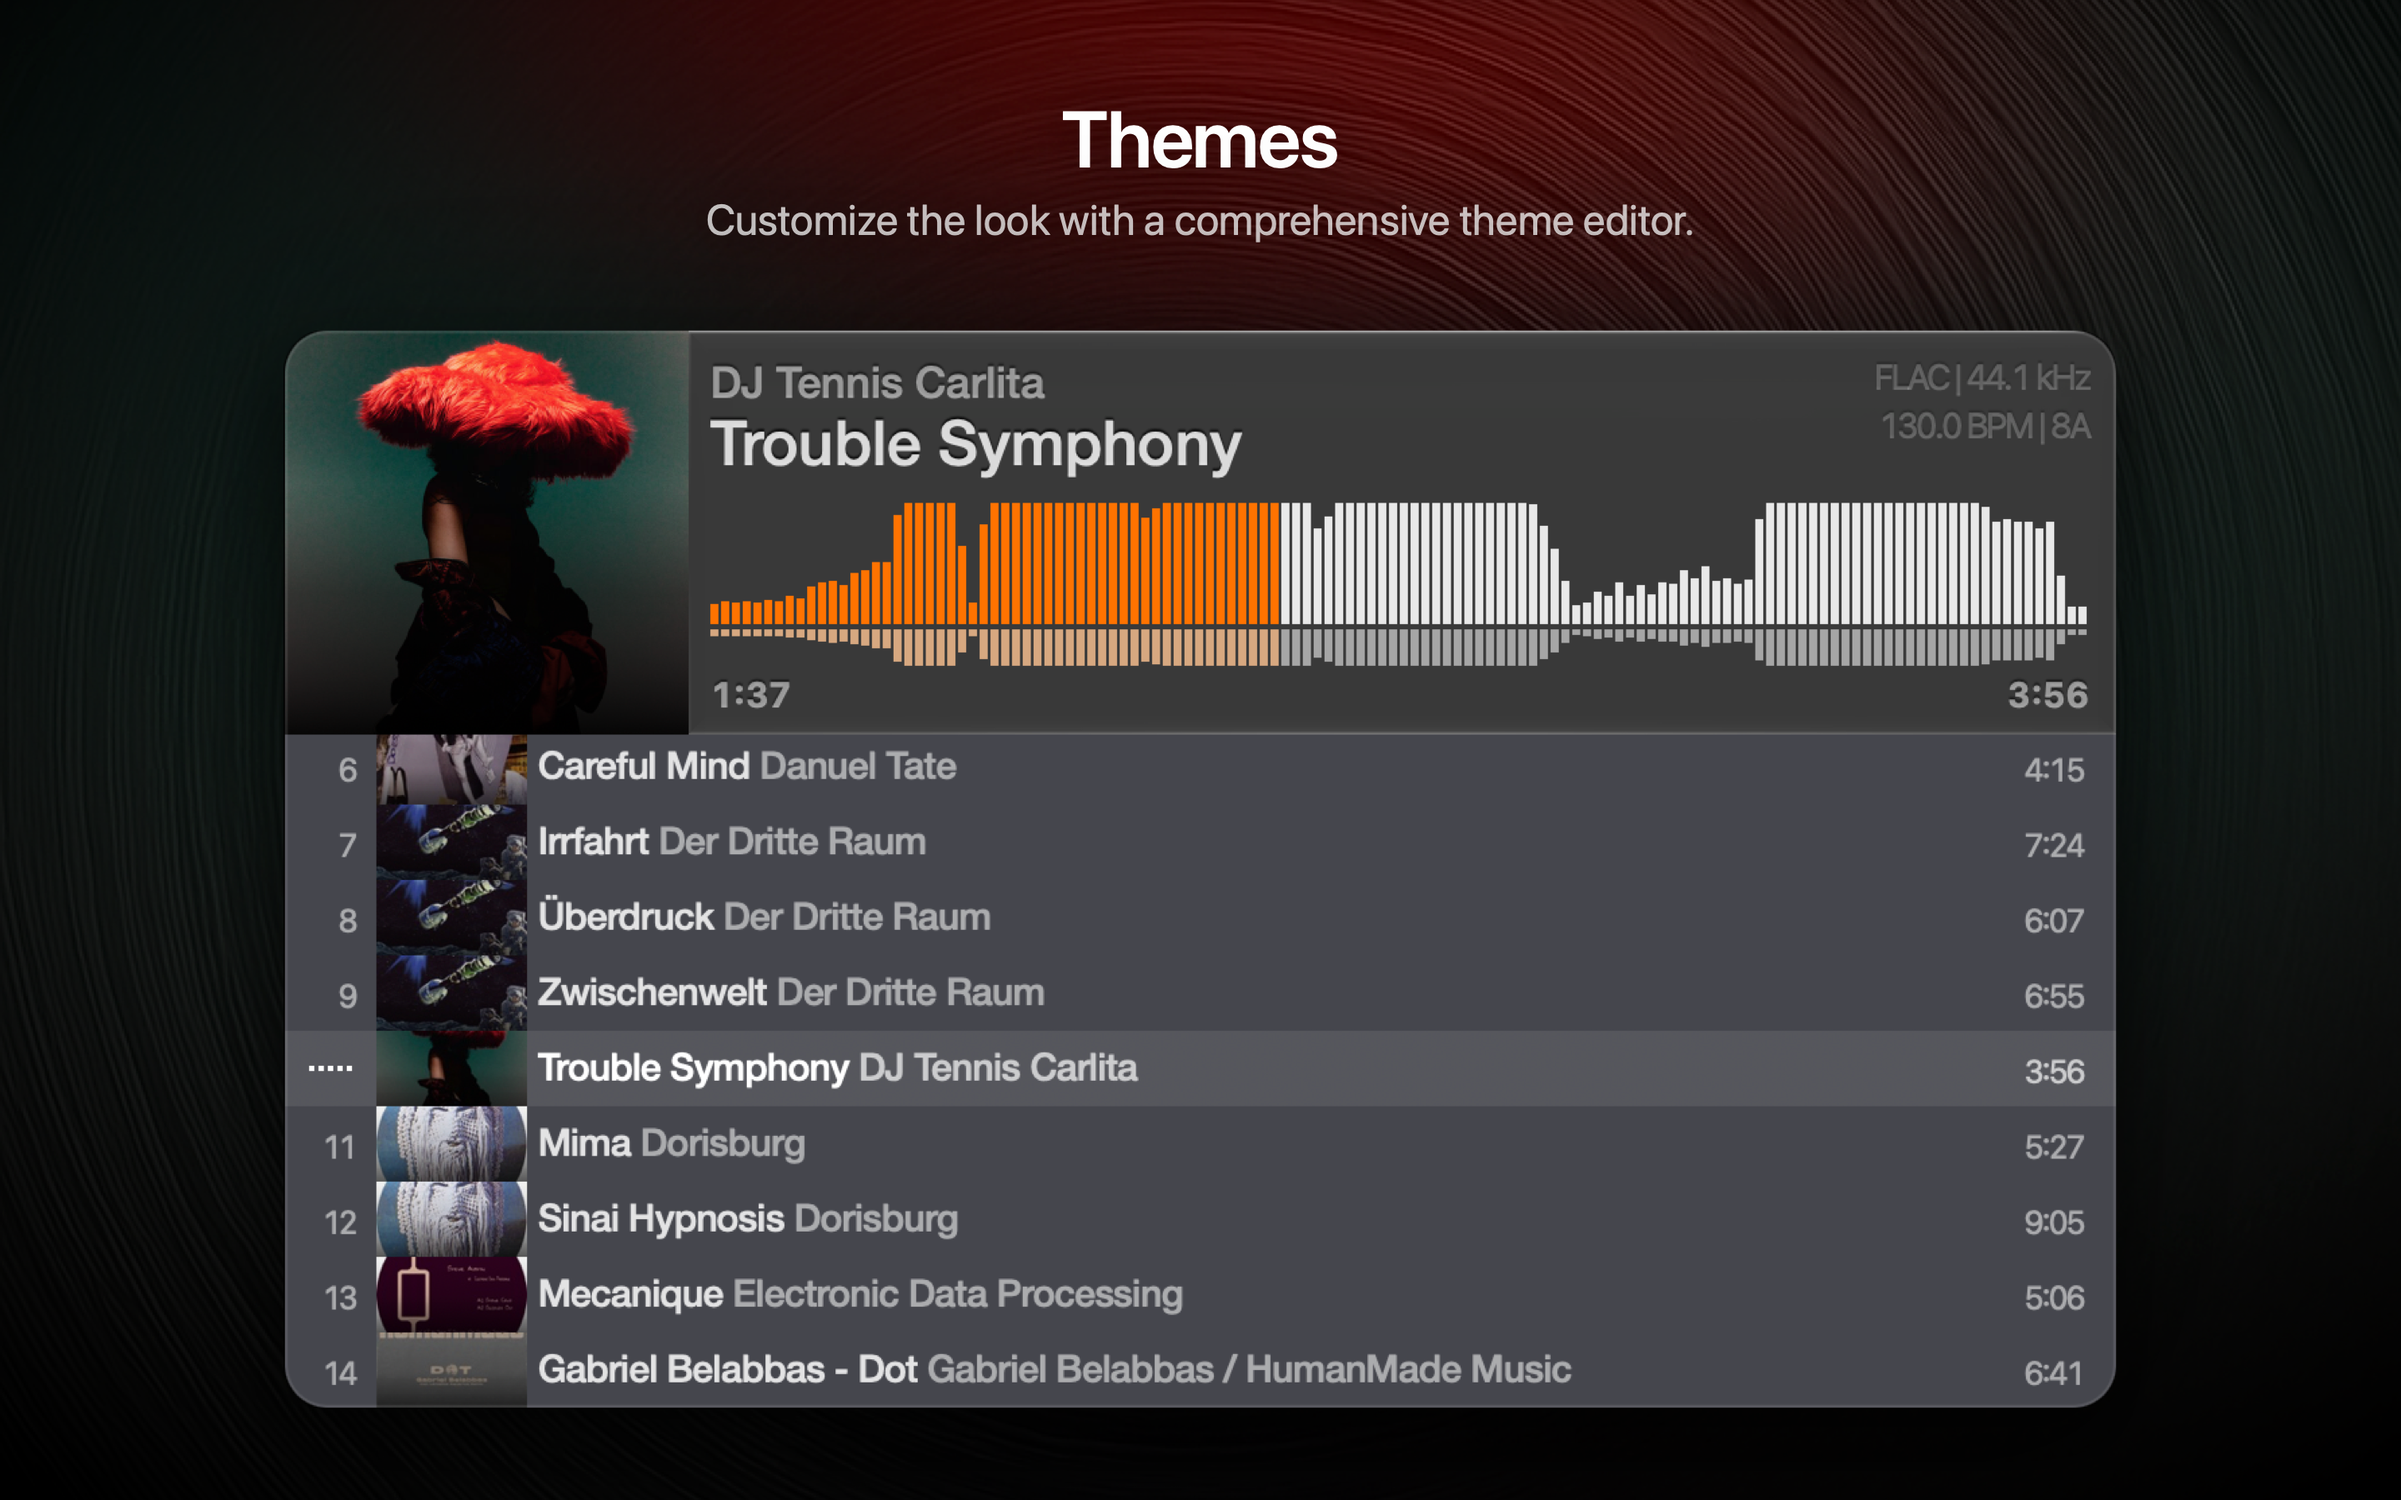
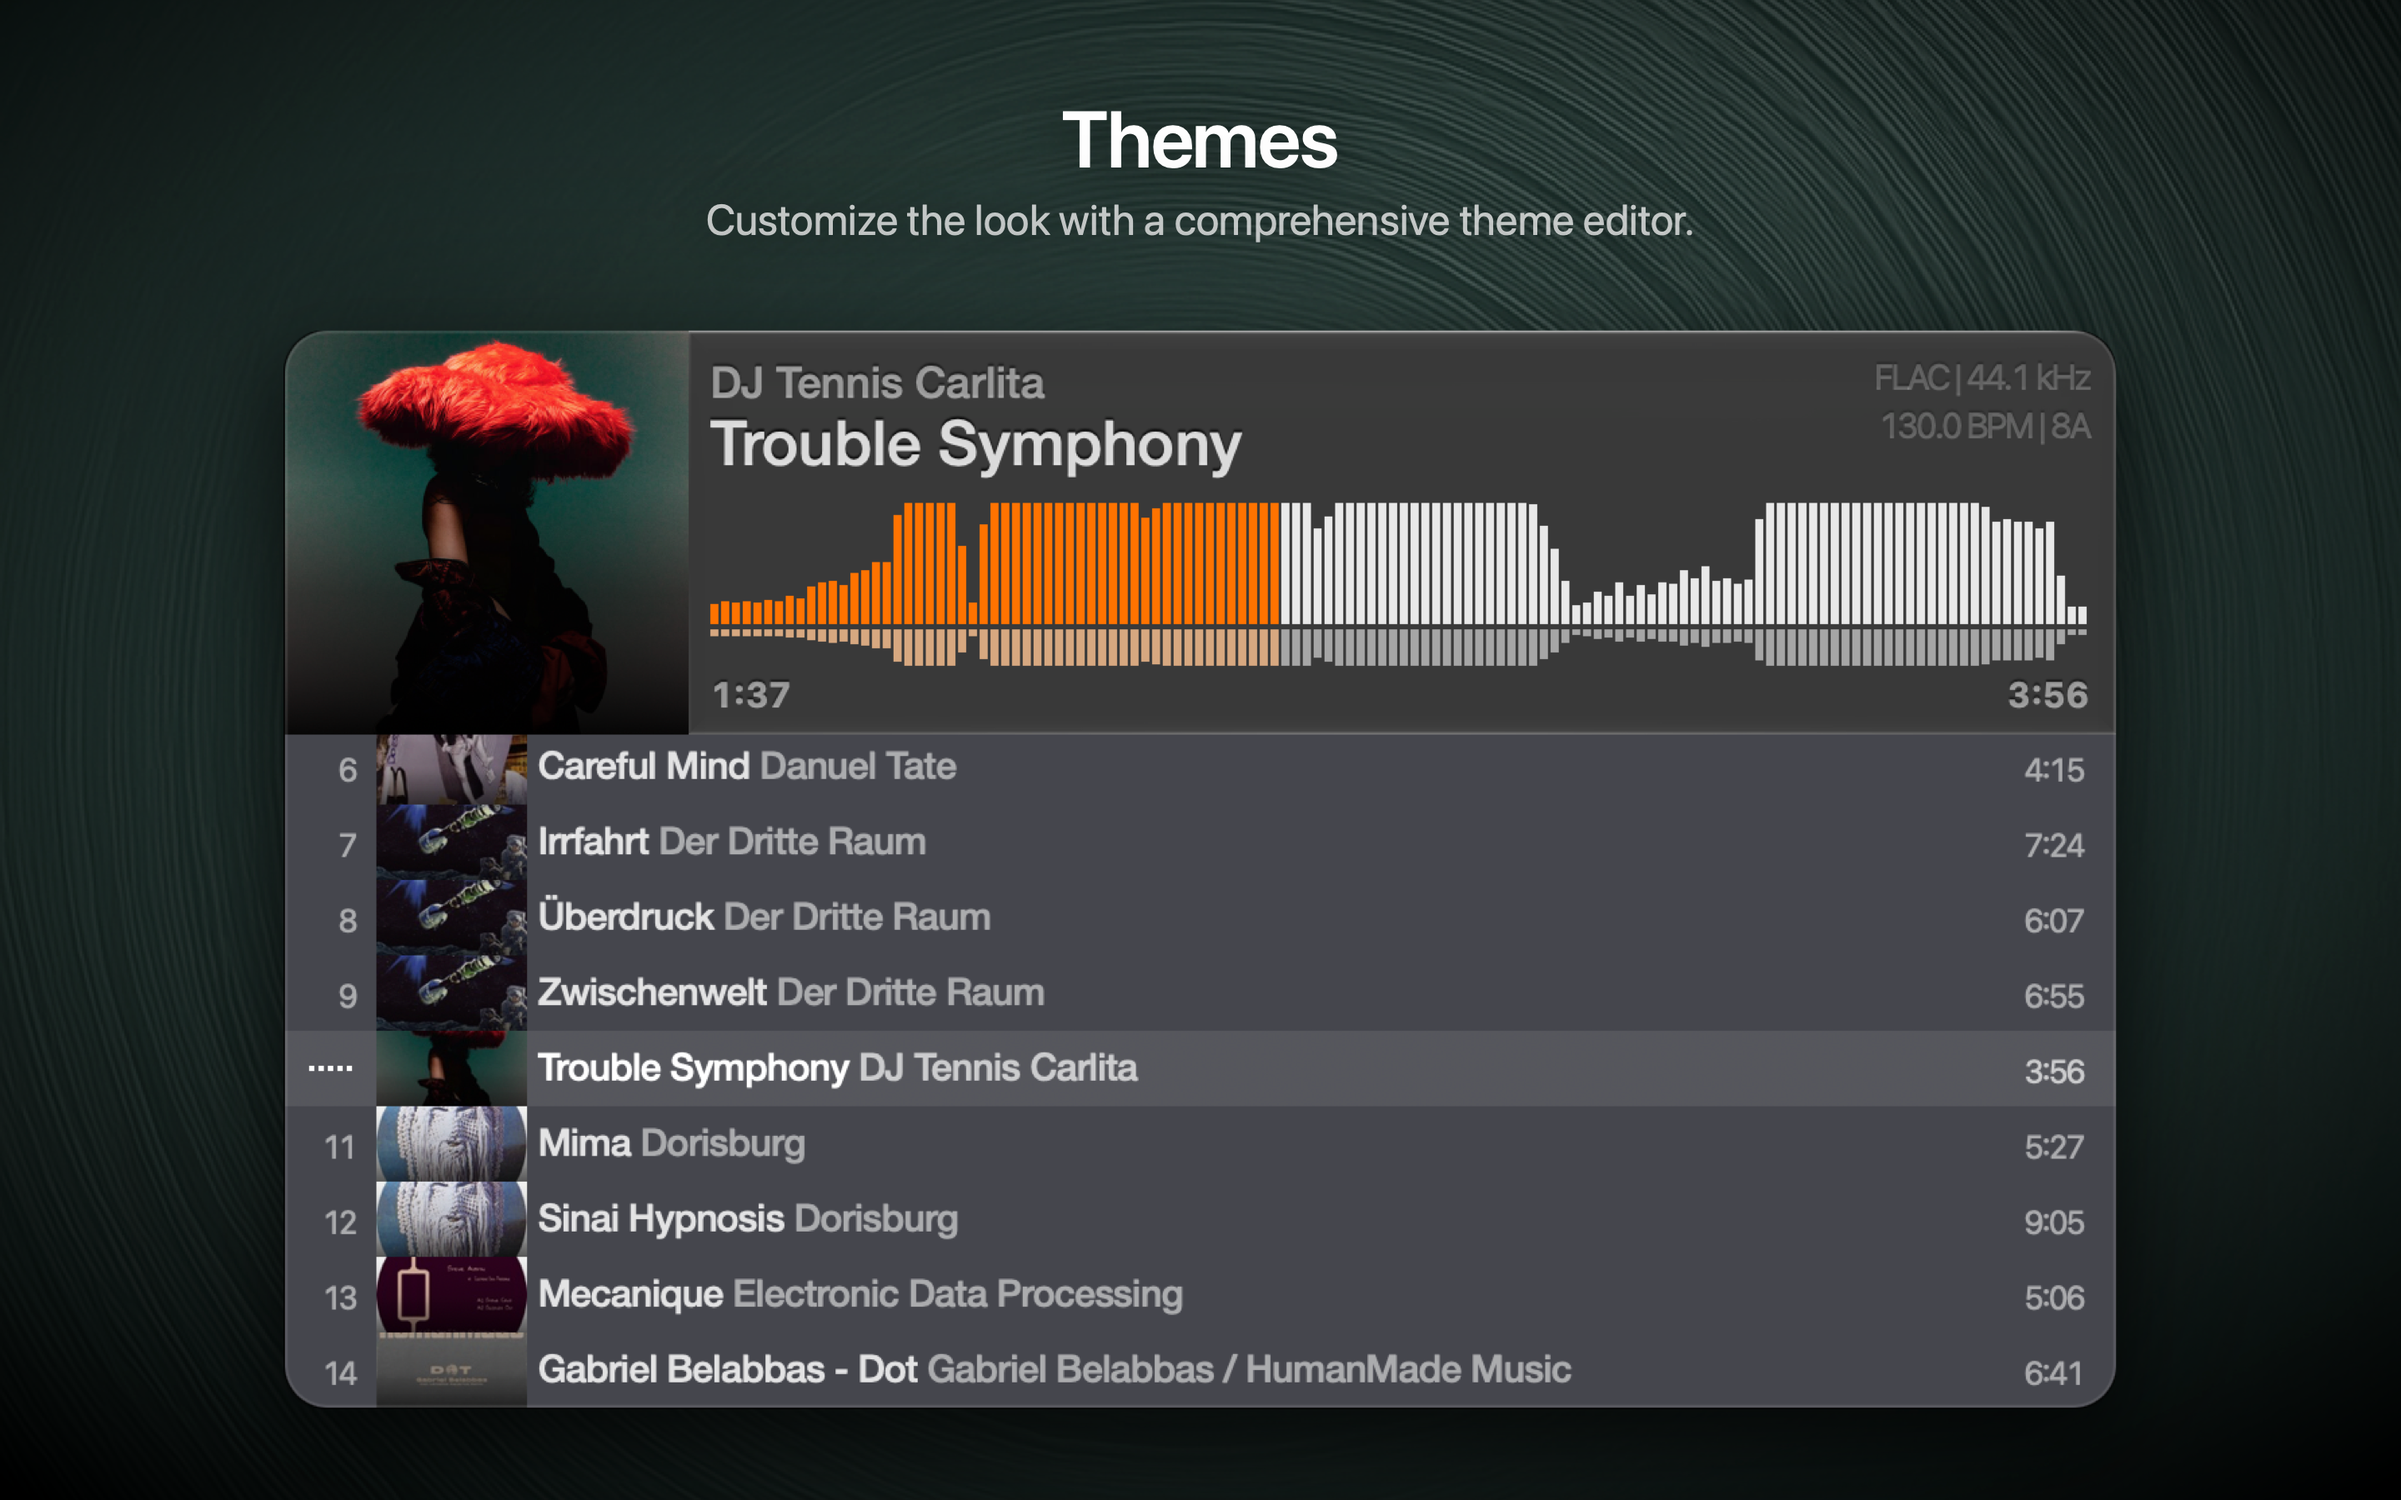
App Store: let a shot override its artwork-derived background
Every shot's background is the playing track's album art blown up and
blurred — which is right until the art fights what the shot is selling.
The themes shot is that case: Trouble Symphony is a red hat on a green
backdrop, so the wash put a red field behind the one screenshot whose
subject is theming, competing with both the Sonic Cirrus orange in the
waveform and the point being made.

compose-app-store-overlay takes --wash-color, which replaces the artwork
wash with one flat colour. solidWash deliberately skips enhanceColor:
that 2.1x saturation exists to rescue washed-out album art, and applied
to a colour named on the command line it only drives a channel to 0 or
255 — the orange this was first tried with clipped from FF7300 to
FF5400 before it was even darkened. Brightness still drops, since the
field sits behind the headline, and the groove texture and vignette are
what keep it from reading as a flat rectangle.

The colour is 5C9488, the artwork's OWN green, sampled off a grid over
the album tile: the green sits in the corners (#2B413C, #394C47,
#3B4E48) while the red is confined to the middle-top cells, which is
exactly why a spatial wash painted the top of the frame red. solidWash
halves it, so the field lands at #2E4A44 — the level that green reads at
inside the art.

Sourcing the wash from the waveform region instead was measured and
rejected: that rect averages #362C23, because the orange bars are a
minority of dark theme background, and enlarging it gives mud.
[…]

Changed region(s): [[0.2188, 0.0, 0.8438, 0.2178]]

diff --git a/scripts/compose-app-store-overlay.swift b/scripts/compose-app-store-overlay.swift
@@ -320,11 +320,32 @@ func vignette(w: Int, h: Int, strength: Double = 0.7) -> [Double] {
     return mask
 }
 
-func buildBackground(art: Buffer, w: Int, h: Int) -> Buffer {
+// A flat field of one colour, for --wash-color. It skips enhanceColor, which
+// exists to rescue washed-out ALBUM ART: a colour named on the command line is
+// already the hue that was wanted, and pushing it 2.1x past its own luma only
+// drives a channel to 0 or 255. Brightness still drops, because this sits
+// behind the headline. The groove texture and the vignette are what keep it
+// from reading as a flat rectangle, so this stays uniform on purpose.
+func solidWash(_ hex: String, w: Int, h: Int) -> Buffer {
+    var v = UInt32(hex, radix: 16) ?? 0
+    if hex.count != 6 { die("--wash-color takes six hex digits, got '\(hex)'") }
+    let b = UInt8(v & 0xFF); v >>= 8
+    let g = UInt8(v & 0xFF); v >>= 8
+    let r = UInt8(v & 0xFF)
+    var buf = Buffer(w: w, h: h)
+    for p in 0..<(w * h) {
+        buf.data[p * 4] = r; buf.data[p * 4 + 1] = g; buf.data[p * 4 + 2] = b
+        buf.data[p * 4 + 3] = 255
+    }
+    enhanceBrightness(&buf, 0.5)
+    return buf
+}
+
+func buildBackground(art: Buffer, washColor: String?, w: Int, h: Int) -> Buffer {
     let grooveCG = loadCGImage(GROOVE)
     var groove = aspectFill(Buffer(cgImage: grooveCG, w: grooveCG.width, h: grooveCG.height), w: w, h: h)
     enhanceBrightness(&groove, 2.6)  // the texture is near-black
-    let wash = artworkWash(art, w: w, h: h)
+    let wash = washColor.map { solidWash($0, w: w, h: h) } ?? artworkWash(art, w: w, h: h)
     var bg = Buffer(w: w, h: h)
     let v = vignette(w: w, h: h)
     for p in 0..<(w * h) {
@@ -579,7 +600,8 @@ func dropShadows(canvasW: Int, canvasH: Int, window: Buffer, x: Int, y: Int, sca
 
 func compose(
     shot: String, out: String, headline: String, subhead: String,
-    canvasW: Int, canvasH: Int, widthFrac: Double, glyphs: [String], lang: String
+    canvasW: Int, canvasH: Int, widthFrac: Double, glyphs: [String], lang: String,
+    washColor: String?
 ) {
     let (rawWin, header) = loadWindow(shot)
     let art = crop(rawWin, x: 0, y: 0, w: header, h: header)
@@ -590,7 +612,7 @@ func compose(
         Double(canvasH) * WINDOW_H_FRAC / Double(rawWin.h))
     let win = resized(rawWin, w: Int(Double(rawWin.w) * scale), h: Int(Double(rawWin.h) * scale))
 
-    var canvas = buildBackground(art: art, w: canvasW, h: canvasH)
+    var canvas = buildBackground(art: art, washColor: washColor, w: canvasW, h: canvasH)
 
     var glyphImages: [Buffer] = []
     var glyphH = 0.0, glyphGap = 0.0
@@ -645,6 +667,7 @@ func compose(
 
 var shot: String?, outPath: String?
 var headline = "", subhead = "", lang = "en"
+var washColor: String? = nil
 var widthFrac = WINDOW_W_FRAC
 var canvasSpec = "\(CANVAS_W)x\(CANVAS_H)"
 var glyphSpec = ""
@@ -664,6 +687,9 @@ while !args.isEmpty {
     case "--width": widthFrac = Double(value()) ?? WINDOW_W_FRAC
     case "--canvas": canvasSpec = value()
     case "--glyphs": glyphSpec = value()
+    // Override the album-art background with one colour, for a shot whose
+    // artwork fights what it is advertising.
+    case "--wash-color": washColor = value().trimmingCharacters(in: CharacterSet(charactersIn: "#"))
     case "--measure": measure = true
     default:
         if arg.hasPrefix("--") { die("unknown option \(arg)") }
@@ -685,4 +711,4 @@ let glyphNames = glyphSpec.split(separator: ",").map { $0.trimmingCharacters(in:
 compose(
     shot: shotPath, out: output, headline: headline, subhead: subhead,
     canvasW: canvasParts[0], canvasH: canvasParts[1], widthFrac: widthFrac,
-    glyphs: glyphNames, lang: lang)
+    glyphs: glyphNames, lang: lang, washColor: washColor)
